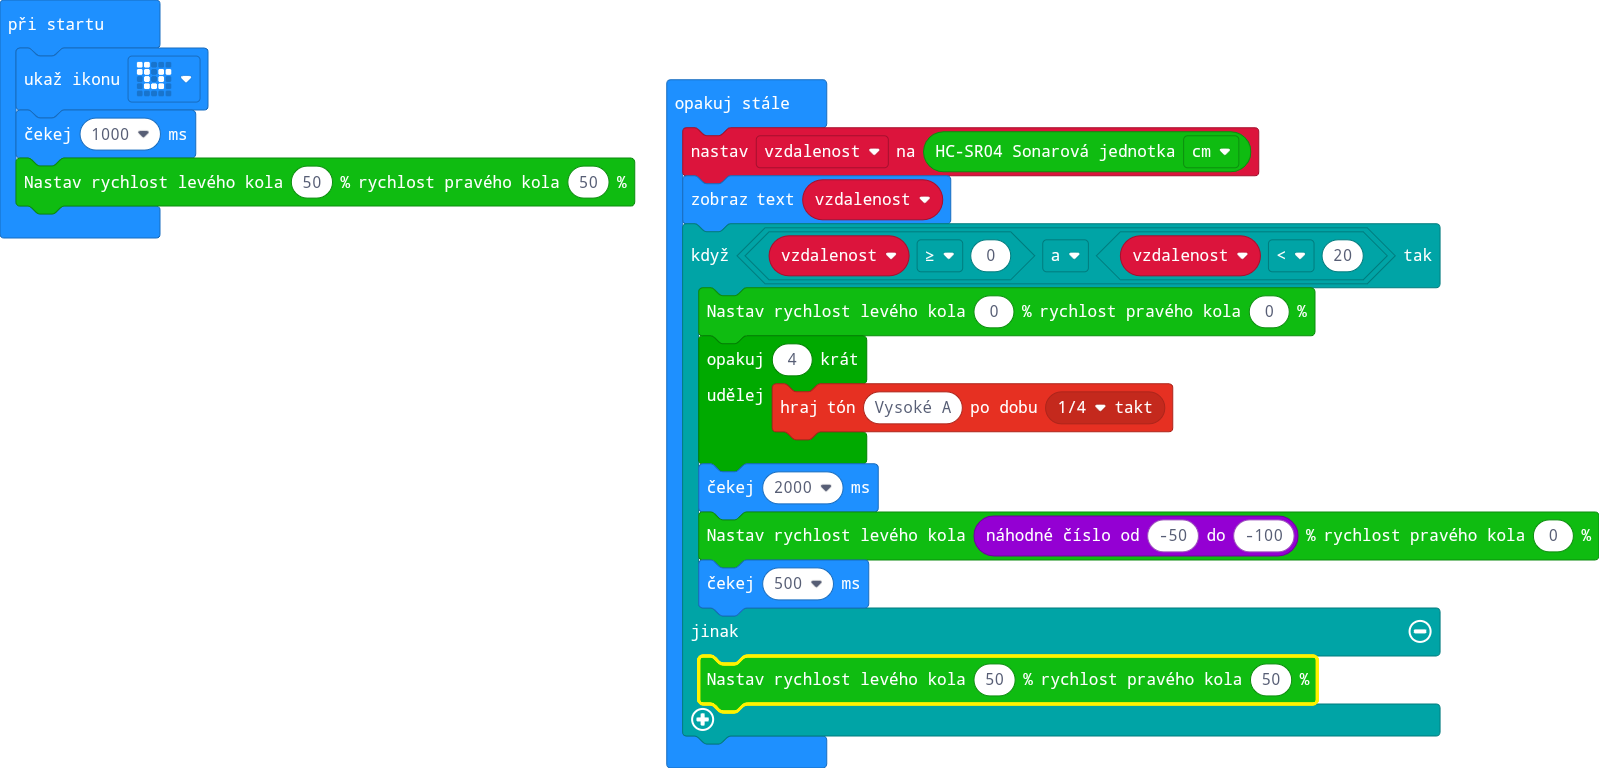
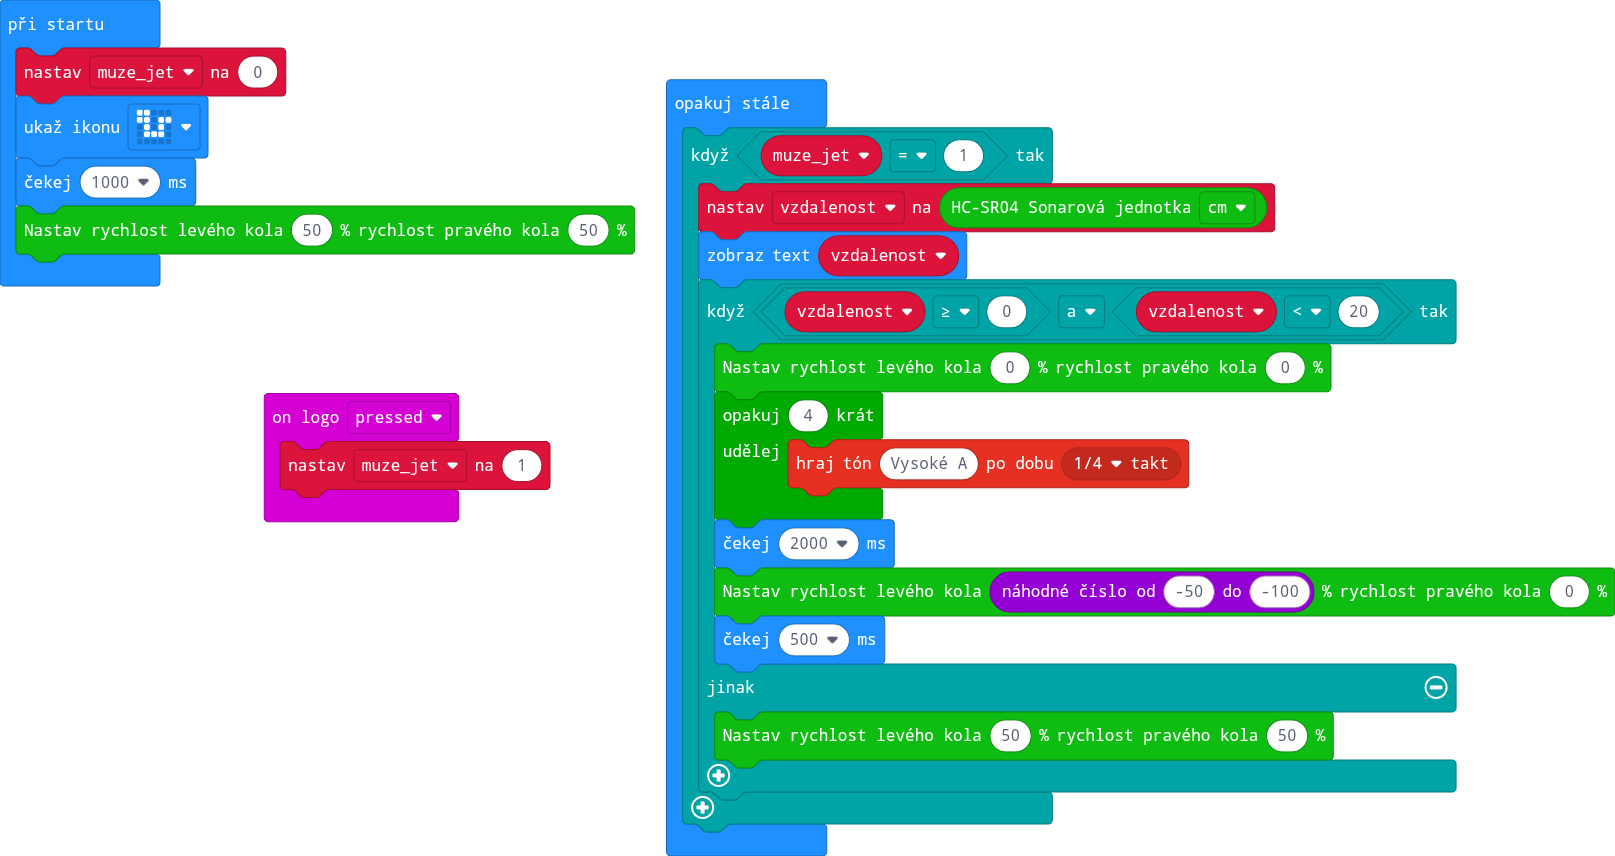
Aktualizovat main.blocks, main.ts

Changed region(s): [[0.0, 0.0, 1.0, 1.0], [0.1532, 0.4375, 0.3677, 0.625]]

diff --git a/main.ts b/main.ts
@@ -1,19 +1,26 @@
+input.onLogoEvent(TouchButtonEvent.Pressed, function () {
+    muze_jet = 1
+})
 let vzdalenost = 0
+let muze_jet = 0
+muze_jet = 0
 basic.showIcon(IconNames.Snake)
 basic.pause(1000)
 cuteBot.motors(50, 50)
 basic.forever(function () {
-    vzdalenost = cuteBot.ultrasonic(cuteBot.SonarUnit.Centimeters)
-    basic.showString("" + (vzdalenost))
-    if (vzdalenost >= 0 && vzdalenost < 20) {
-        cuteBot.motors(0, 0)
-        for (let index = 0; index < 4; index++) {
-            music.playTone(880, music.beat(BeatFraction.Quarter))
+    if (muze_jet == 1) {
+        vzdalenost = cuteBot.ultrasonic(cuteBot.SonarUnit.Centimeters)
+        basic.showString("" + (vzdalenost))
+        if (vzdalenost >= 0 && vzdalenost < 20) {
+            cuteBot.motors(0, 0)
+            for (let index = 0; index < 4; index++) {
+                music.playTone(880, music.beat(BeatFraction.Quarter))
+            }
+            basic.pause(2000)
+            cuteBot.motors(randint(-50, -100), 0)
+            basic.pause(500)
+        } else {
+            cuteBot.motors(50, 50)
         }
-        basic.pause(2000)
-        cuteBot.motors(randint(-50, -100), 0)
-        basic.pause(500)
-    } else {
-        cuteBot.motors(50, 50)
     }
 })
